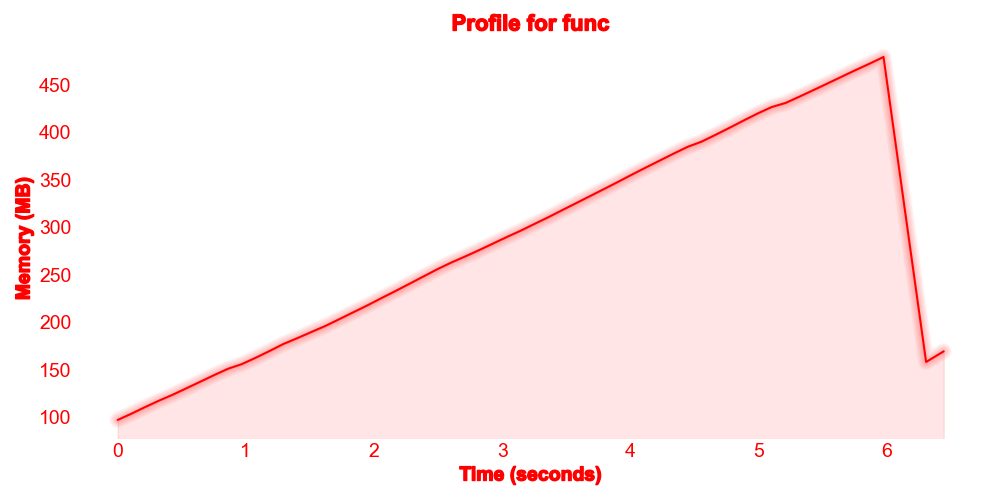
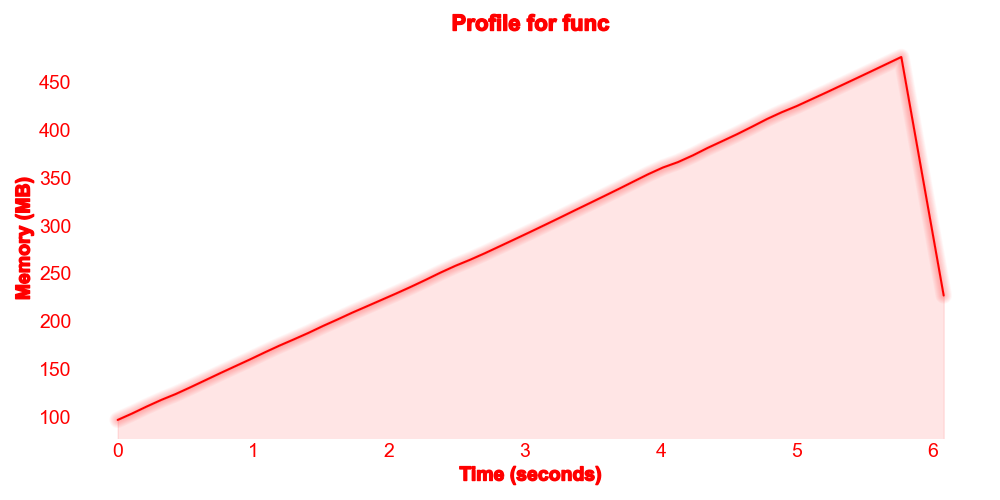
updates

diff --git a/profile_this/core.py b/profile_this/core.py
@@ -2,6 +2,7 @@
 
 __all__ = ["ProfileThis", "profilethis"]
 
+from atexit import register
 from functools import wraps
 from os import getpid
 from threading import Thread
@@ -35,7 +36,6 @@ class ProfileThis:
 
     def __exit__(self, exc_type, exc_value, traceback):
         self.stop()
-        self.clear()
 
     def _log(self):
         """Snapshots memory allocation and runtime according to some
@@ -59,6 +59,7 @@ class ProfileThis:
         self.thread = Thread(target=self._log, daemon=True)
         self.thread.start()
 
+    @register
     def stop(self):
         """Stops memory profiling."""
 
@@ -148,8 +149,10 @@ def profilethis(title: str, path: str, interval: float | None = None):
         ):
             with ProfileThis(interval=interval) as profiler:
                 result = func(*args, **kwargs)
-                profiler.plot(title=title, path=path)
-                return result
+
+            profiler.plot(title=title, path=path)
+            profiler.clear()
+            return result
 
         return wrapper
 

diff --git a/profile_this/__init__.py b/profile_this/__init__.py
@@ -2,4 +2,4 @@ from .core import ProfileThis, profilethis
 
 __all__ = ["ProfileThis", "profilethis"]
 __author__ = "Mike Letts"
-__version__ = "0.1.9"
+__version__ = "0.1.10"

diff --git a/README.md b/README.md
@@ -50,10 +50,11 @@ Or this:
 ```python
 with ProfileThis() as profiler:
     func()
-    profiler.plot(
-        title="Profile for func",
-        path="docs/func.png",
-    )
+
+profiler.plot(
+    title="Profile for func",
+    path="docs/func.png",
+)
 ```
 
 Or this:
